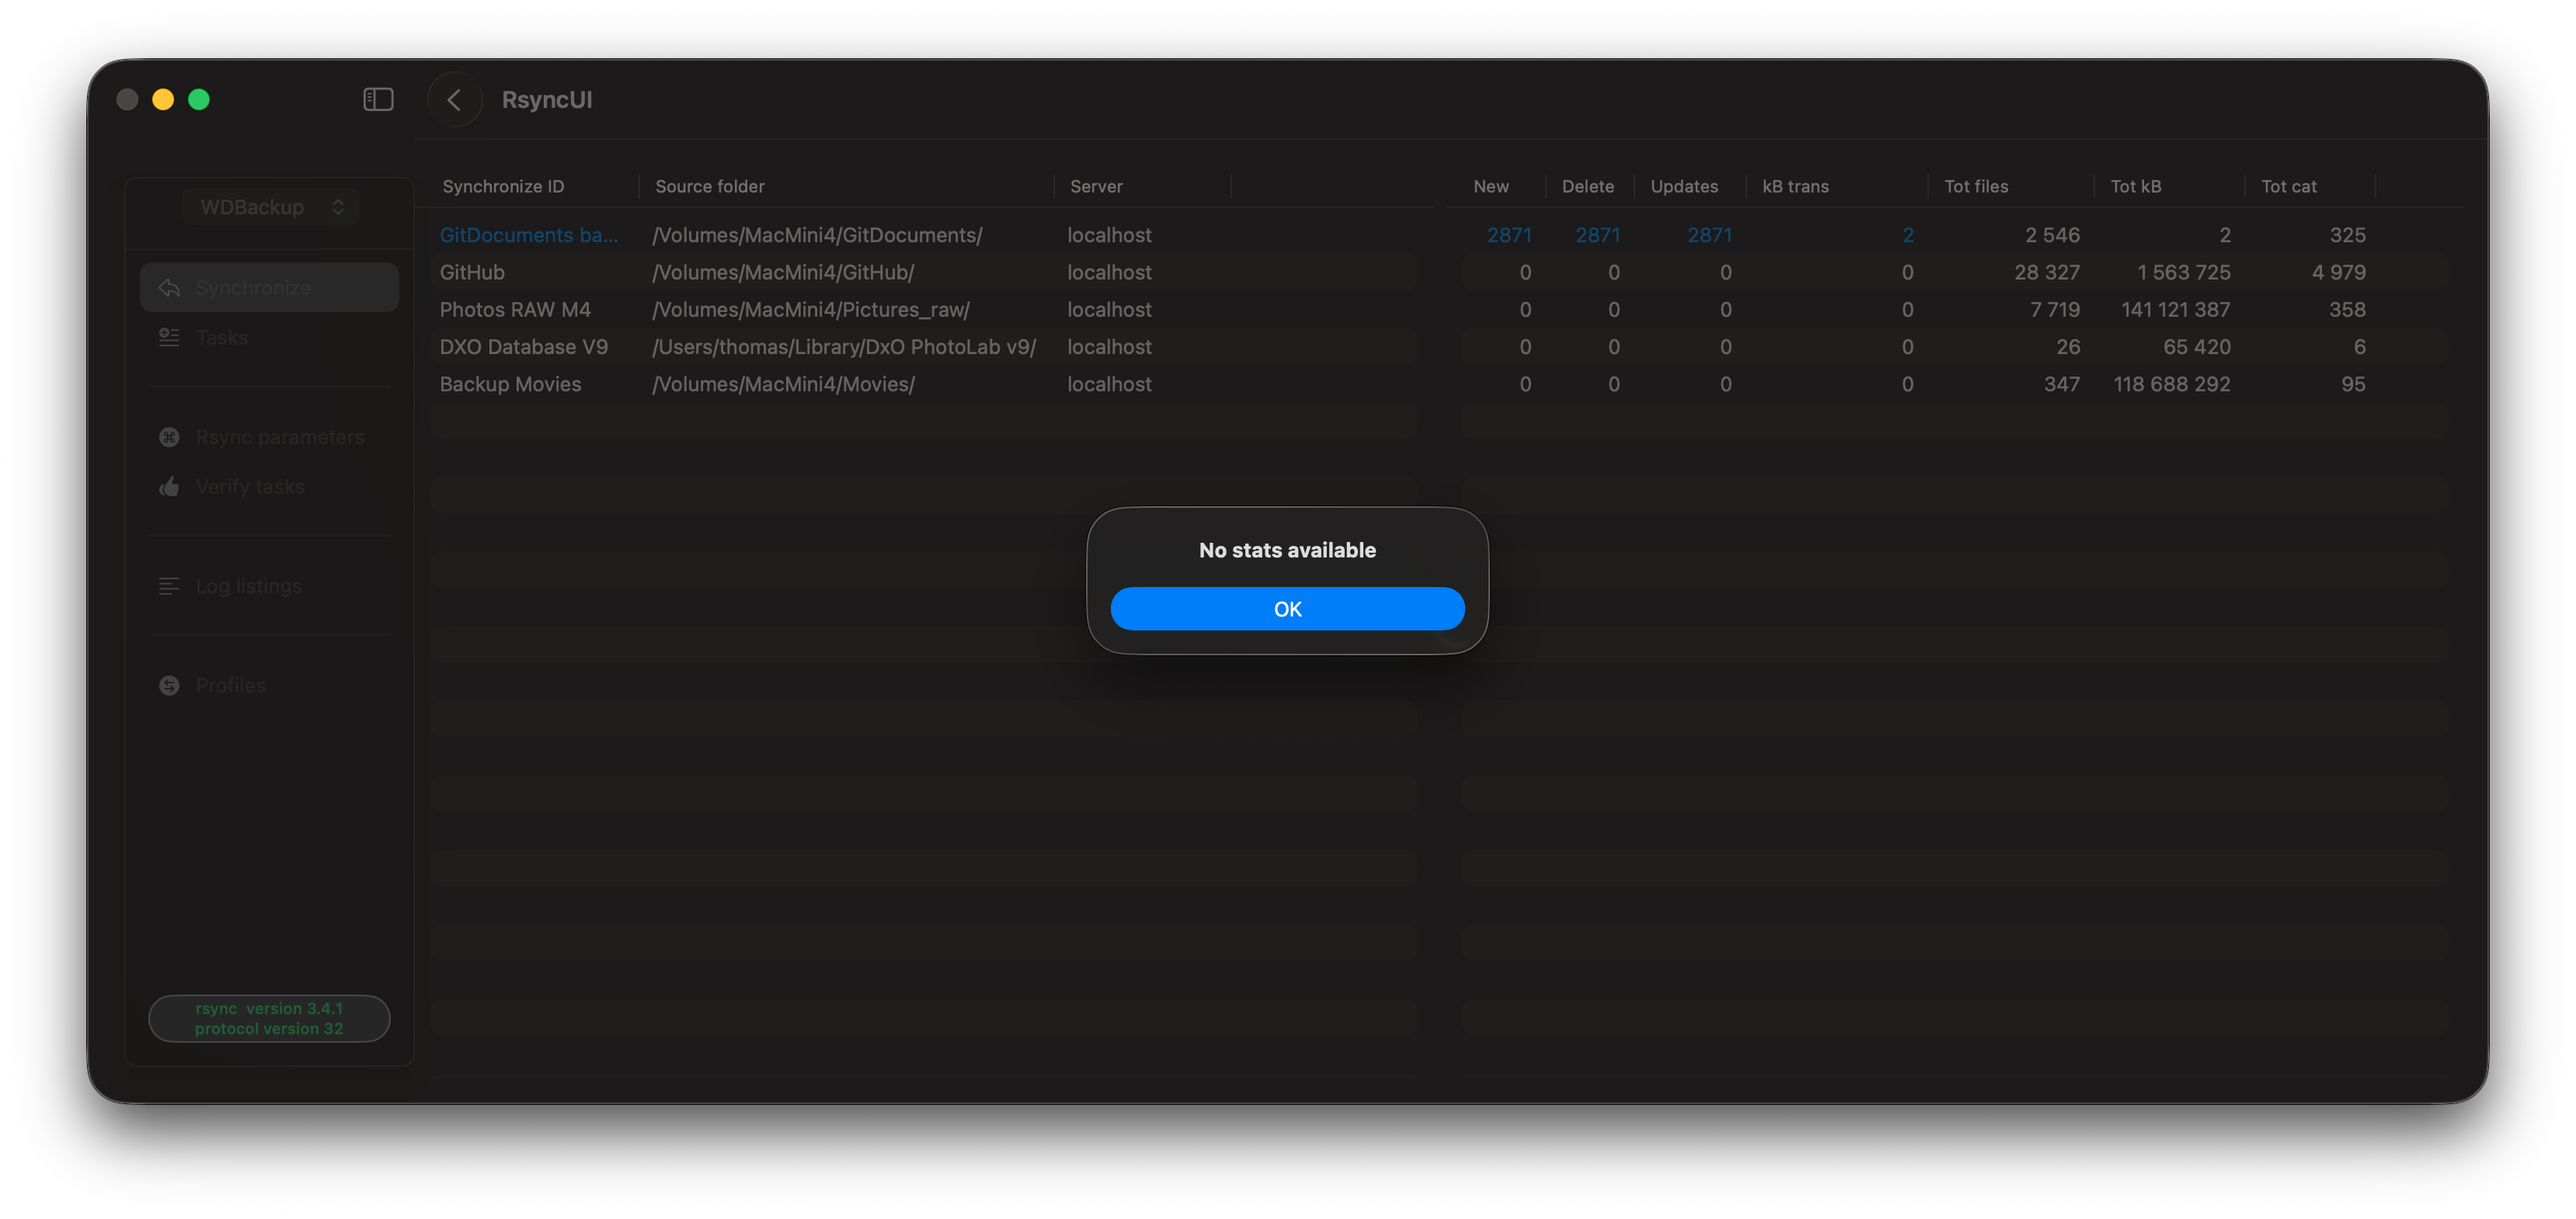
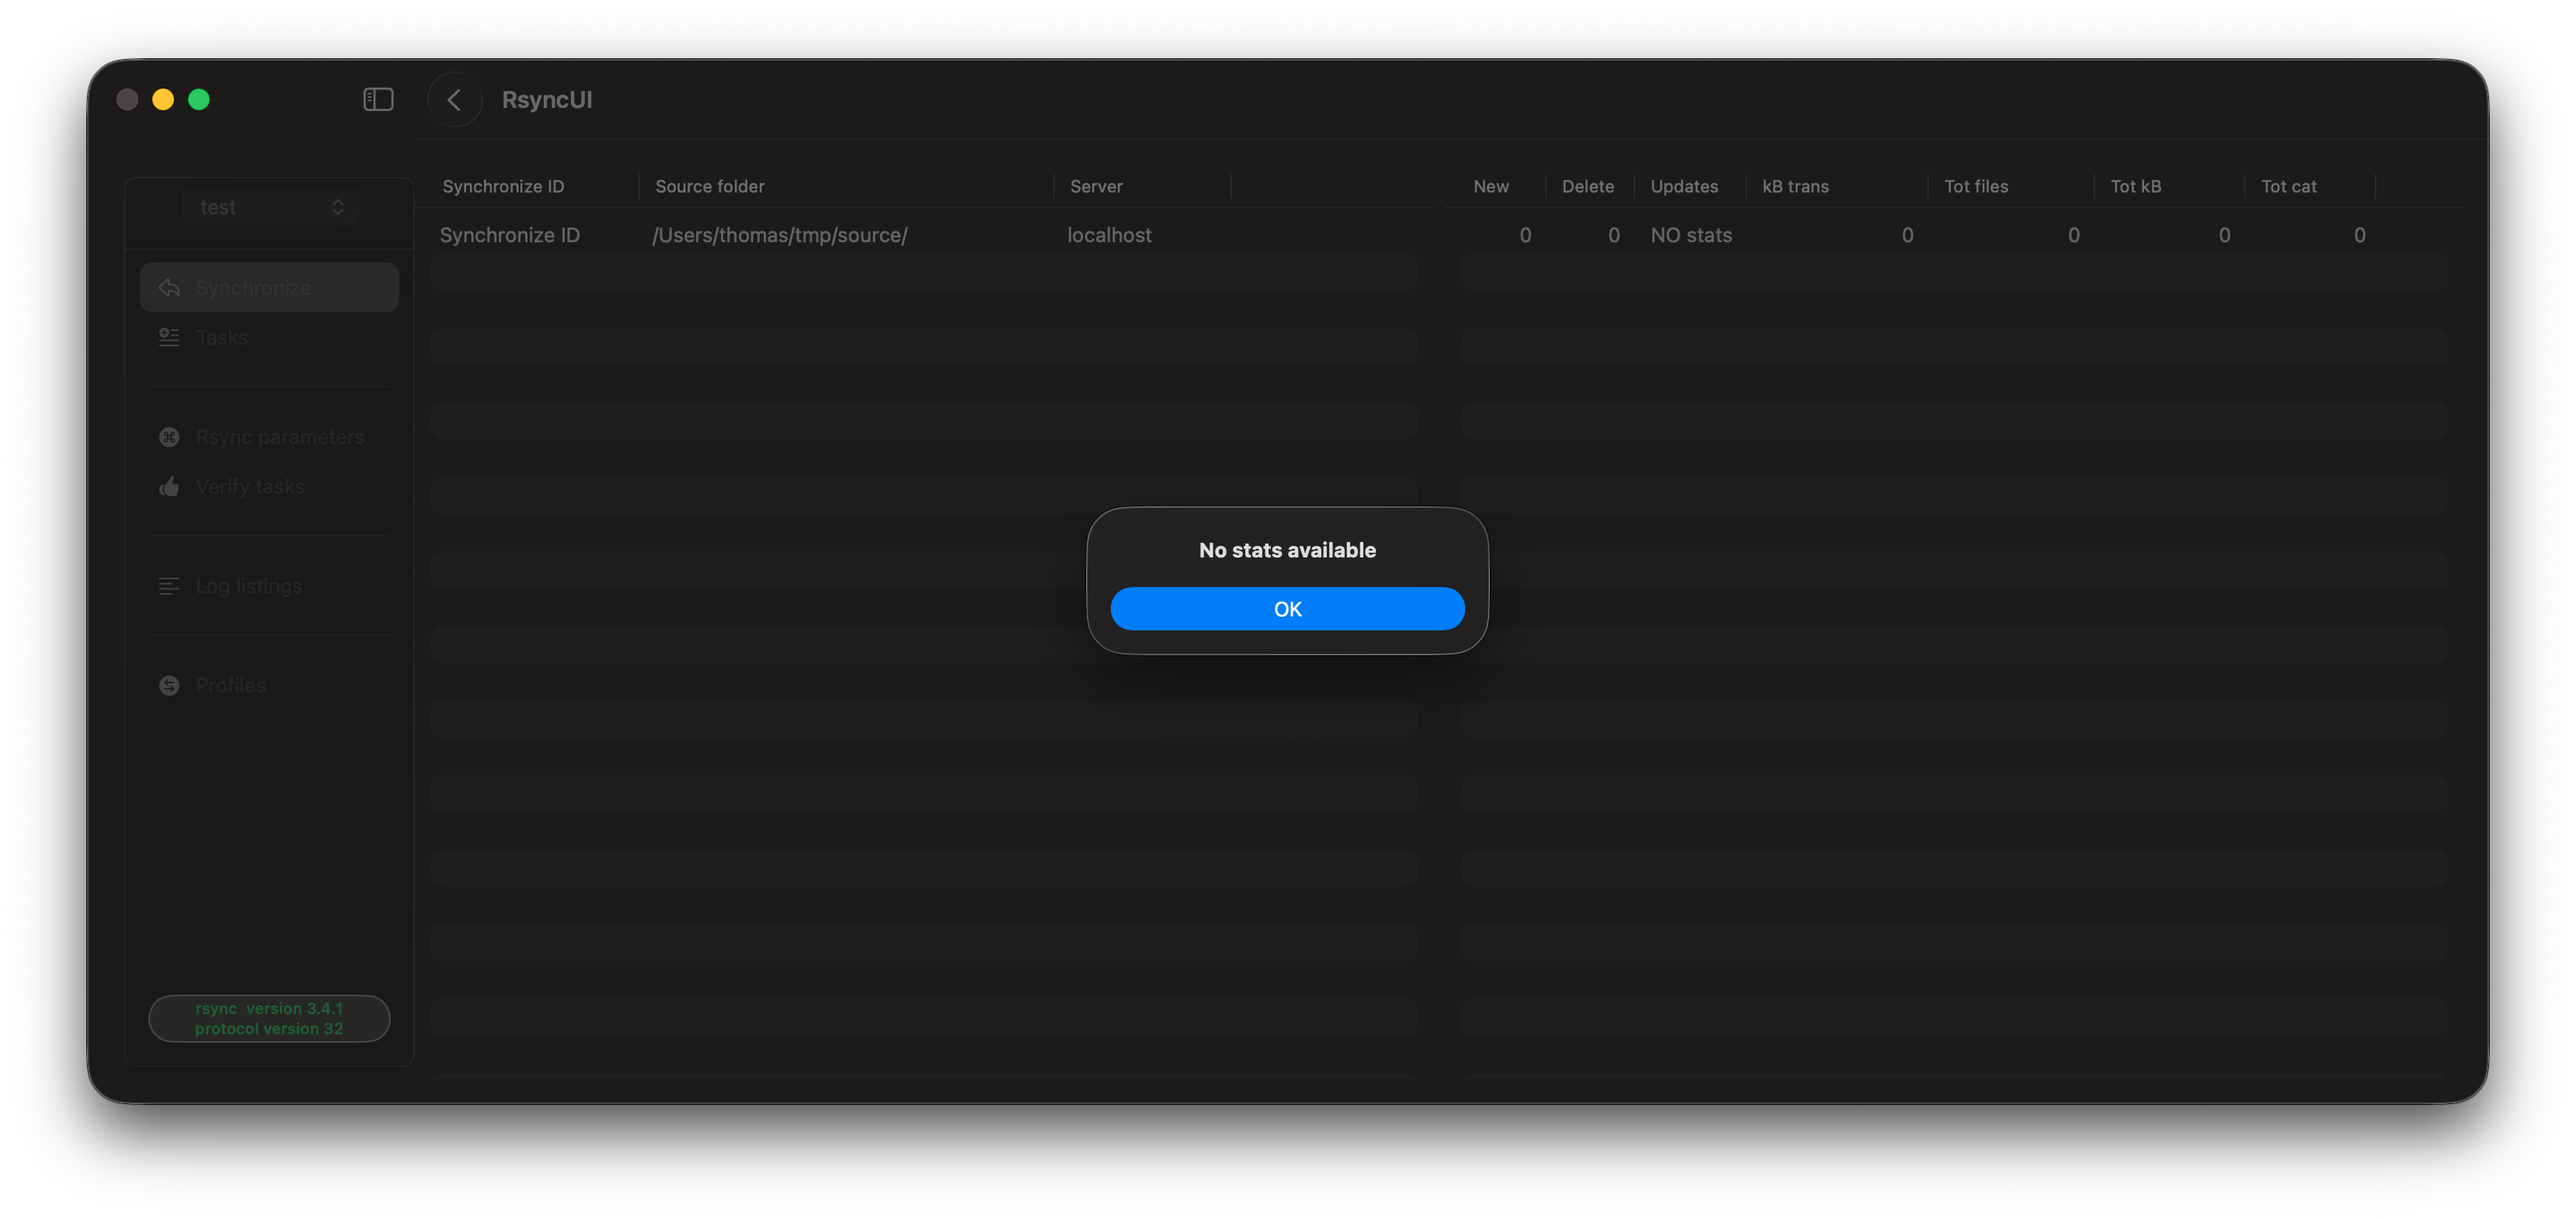
Update blog post and images for RsyncUI v2.8.1
Revised the Version281.md blog post to clarify the handling of the 'no stats, no log' issue and added details about user notifications and log record defaults. Updated nostats.png and added nostats2.png to illustrate the changes in the application's behavior.

diff --git a/content/en/blog/Version281.md b/content/en/blog/Version281.md
@@ -8,17 +8,13 @@ categories = ["changelog"]
 
 ### Version 2.8.1 (build 172) - not yet released
 
-Some info about the *no stats, no log* issue.
+Some info about the *no stats, no log* issue. 
 
-*In the upcoming maintenance release, version 2.8.1, an alert will be introduced to notify users when RsyncUI detects a lack of data to write logdata. While still in development, RsyncUI in version 2.8.1 will now throw an error when this condition is met. Notably, the loop for executing and estimating will continue to run even after the error is encountered.*
+*Updates after some testing this evening, local time*
 
-It appears that the issue is only on my Mac Mini M4 and does not manifest on my MacBook Pro M3. Furthermore, the issue only occurs when synchronizing a small amount of data to a fast local attached SSD. And it is only when running RsyncUI as an application compiled for release that this error is encountered.
+There are both positive and negative aspects to consider. On the positive side, I have successfully identified the occurrence of the issue and can notify the user accordingly. However, I am **unable** to modify the `try? await Task.sleep(nanoseconds: sleeptime)` code to resolve the problem. To be candid, I am somewhat perplexed as to why this issue arises. Nevertheless, the positive aspect is that RsyncUI is actively notifying the user, and the user has the ability to initiate a synchronization manually when the issue occurs. 
 
-I am unable to produce this error when executing RsyncUI within Xcode. Executing RsyncUI within Xcode results in increased code execution time, and the summarized output from rsync is captured when the termination signal is detected.
-
-The SPM RsyncProcess, in development, has been enhanced to apply a new value to the `try? await Task.sleep(nanoseconds: sleeptime)` function. This modification increasing sleeptime for the termination signal, by default set to 50,000,000 nanoseconds (50 milliseconds).
-
-During development, I will intentionally recreate the issue. Furthermore, by increasing the Task.sleep value, I will attempt to resolve the issue. If this resolves the issue, I will make an input in the settings during the upcoming maintenance release to update the default sleeptime. The updated sleeptime will be stored as part of RsyncUI settings.
+*In the upcoming maintenance release, version 2.8.1, an alert will be introduced to notify users when RsyncUI detects a lack of data to write logdata.*
 
 <div class="alert alert-danger" role="alert">
 
@@ -29,3 +25,7 @@ If you encounter this issue, the data is synchronized, but RsyncUI is reporting 
 In the upcoming version of RsyncUI, a new error will be introduced. If logging fails due to the aforementioned reason, this error will be generated.
 
 {{< figure src="/images/gettingstarted/nostats.png" alt="" position="center" style="border-radius: 8px;" >}}
+
+If the issue occurs the log records is set to default values.
+
+{{< figure src="/images/gettingstarted/nostats2.png" alt="" position="center" style="border-radius: 8px;" >}}
